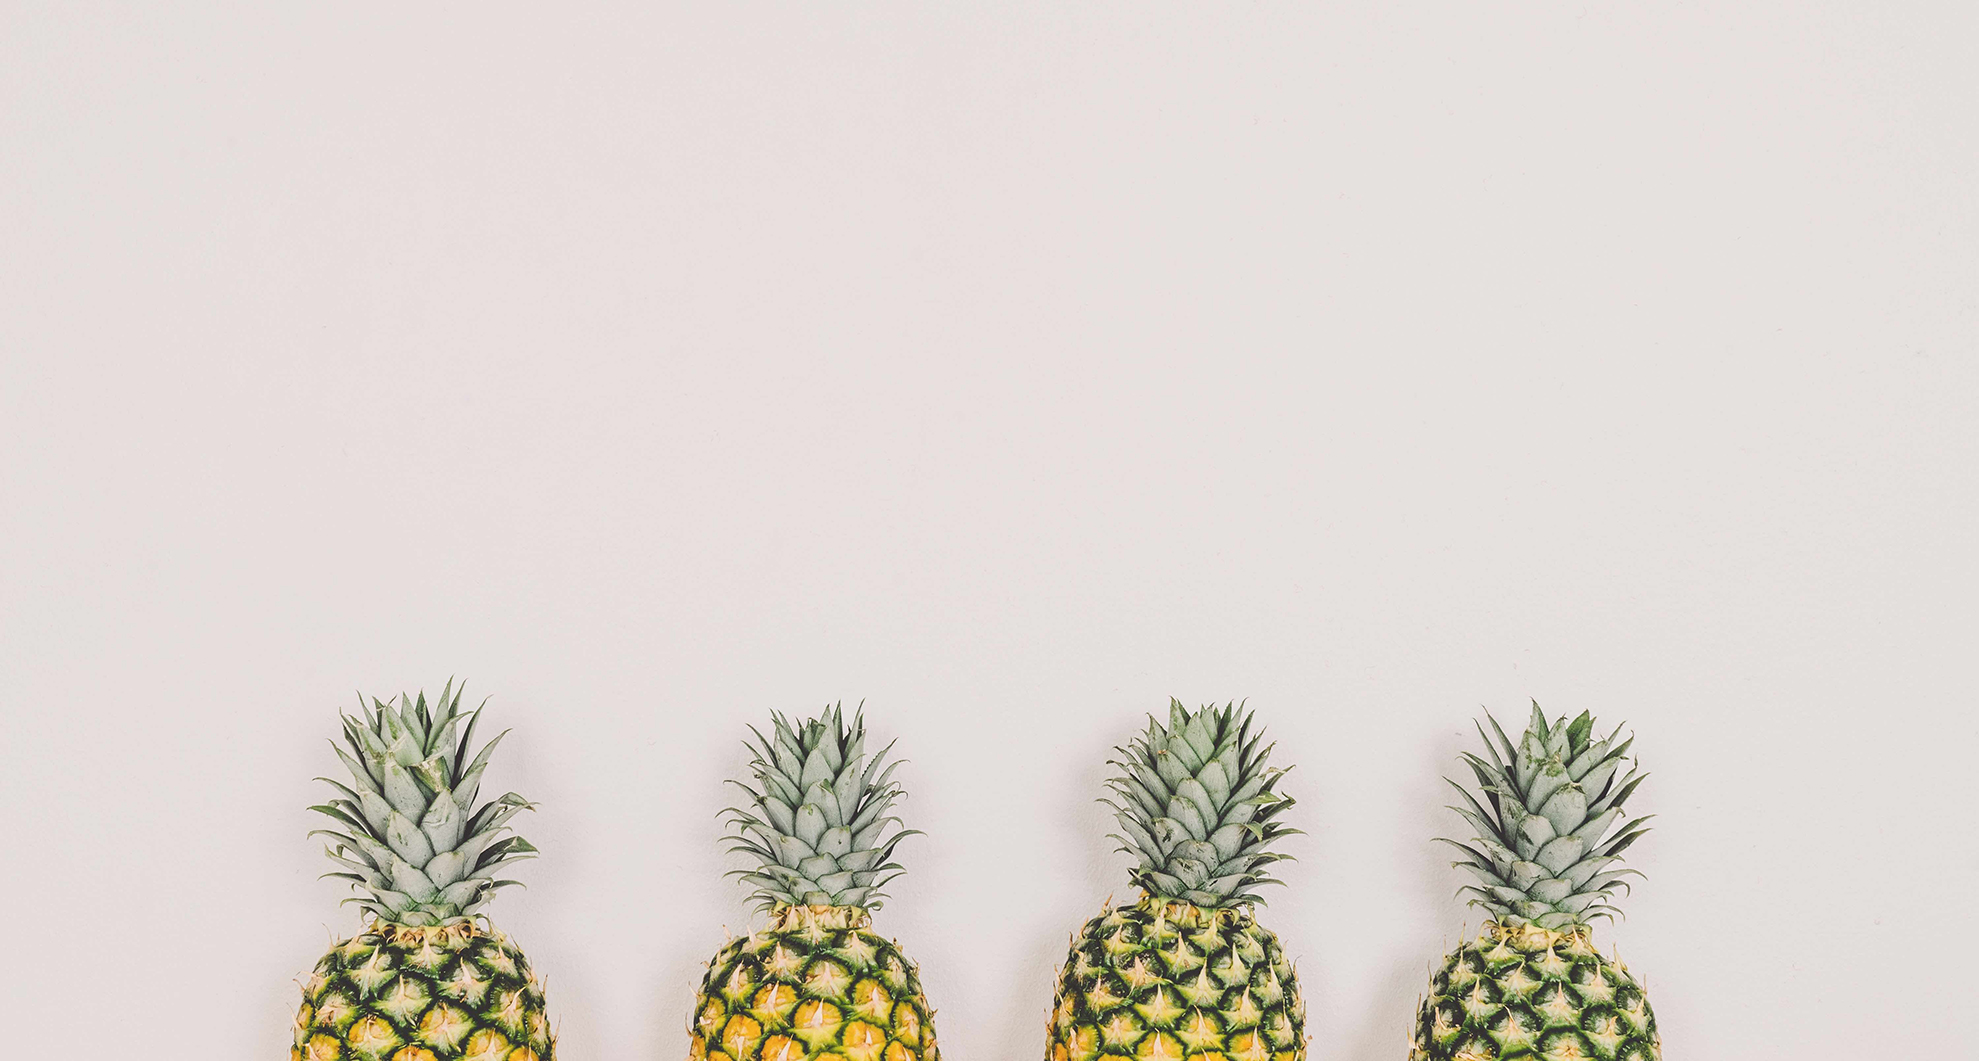
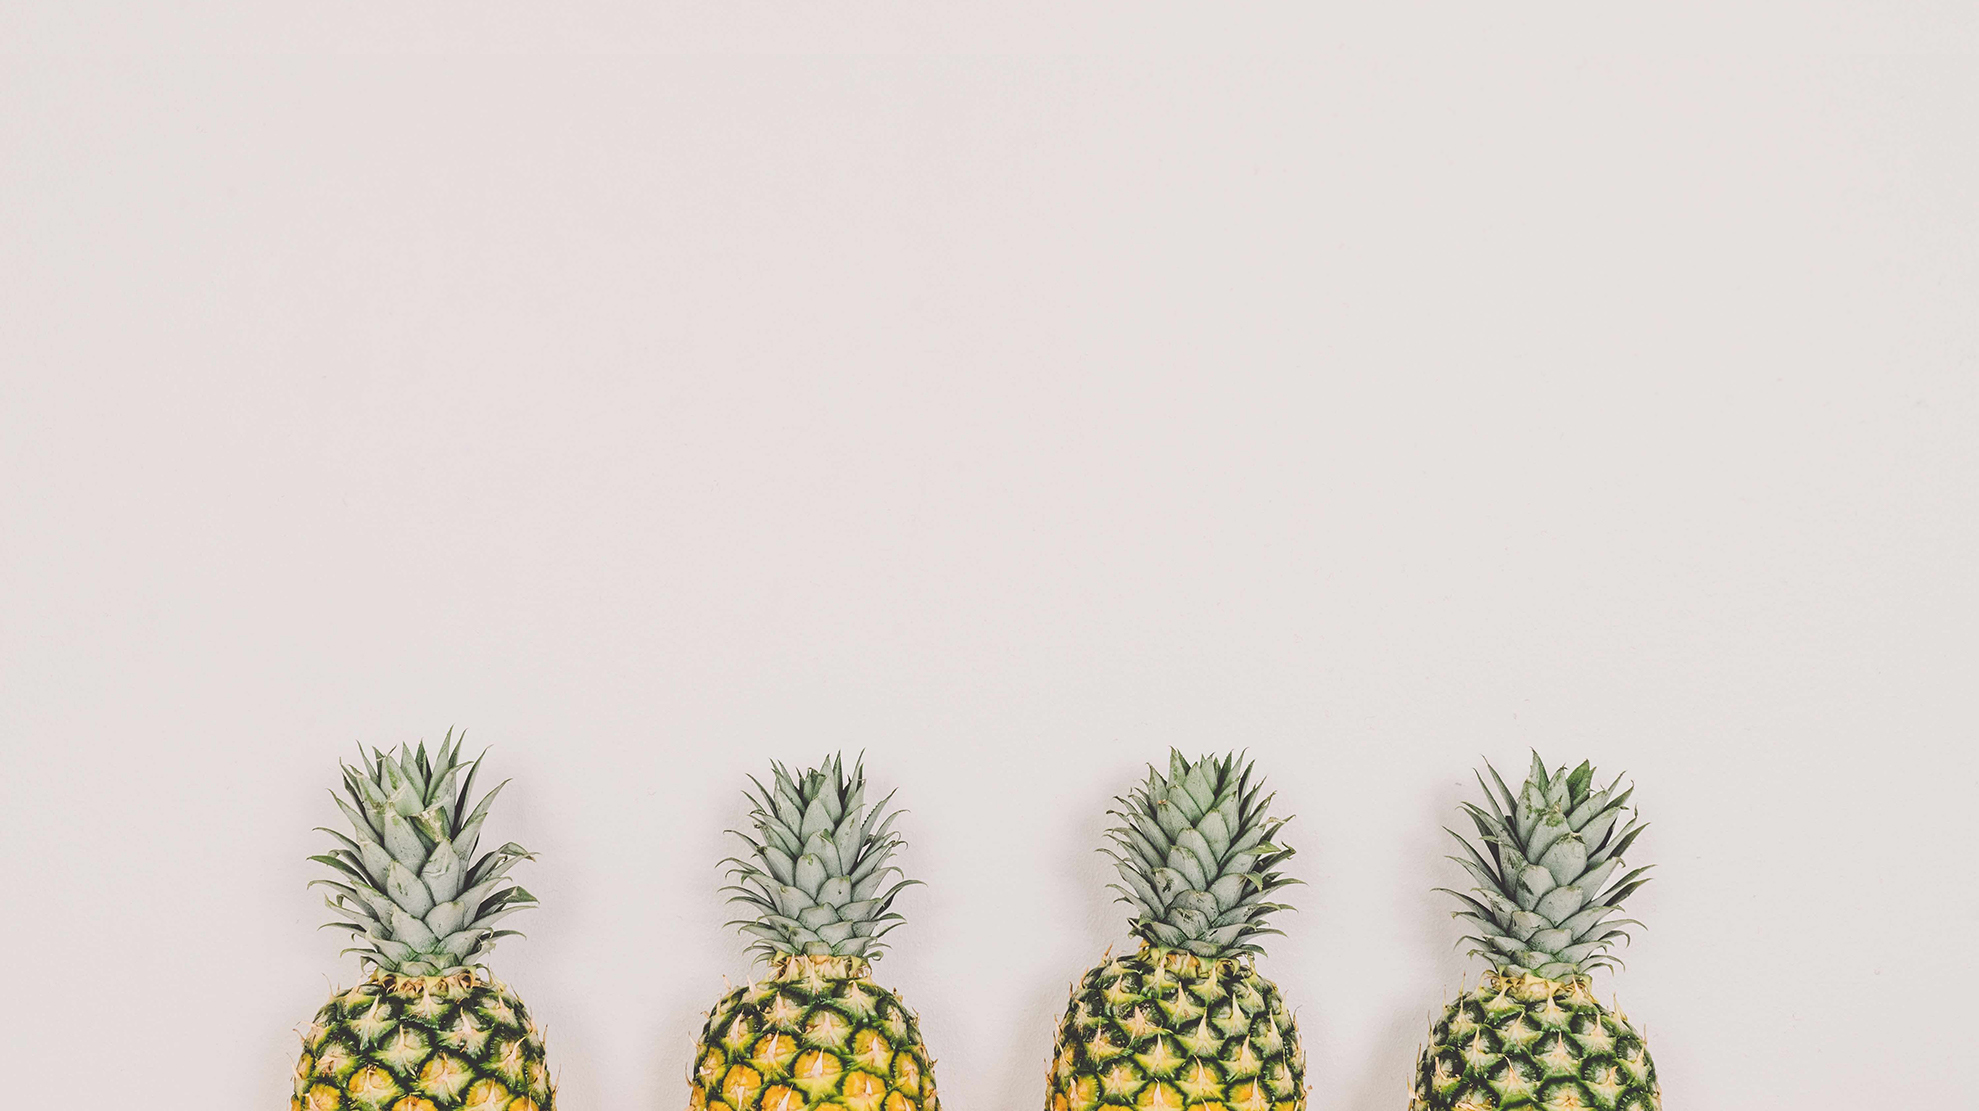
adjustments.. forgot which ones.. lol

diff --git a/projects/love-bound.html b/projects/love-bound.html
@@ -21,6 +21,13 @@
         <script src="https://oss.maxcdn.com/html5shiv/3.7.3/html5shiv.min.js"></script>
         <script src="https://oss.maxcdn.com/respond/1.4.2/respond.min.js"></script>
         <![endif]-->
+        <style>
+
+            .bg-nav a {
+
+                color: #444 !important;
+            }
+        </style>
     </head>
 
     <body>
@@ -43,11 +50,11 @@
 
                 <ul>
 
-                    <li><a href="../index.html">home</a></li>
-                    <li><a href="#projects">projects</a></li>
-                    <li><a href="../index.html#about">About</a></li>
+                    <li><a style="color: whitesmoke" href="../index.html">home</a></li>
+                    <li><a style="color: whitesmoke" href="#projects">projects</a></li>
+                    <li><a style="color: whitesmoke" href="../index.html#about">About</a></li>
                     <!-- <li><a href="#experience">experience</a></li> -->
-                    <li><a href="#contact">contact</a></li>
+                    <li><a style="color: whitesmoke" href="#contact">contact</a></li>
                 </ul>
             </nav>
         </header>
@@ -62,16 +69,16 @@
 
                     <div>
 
-                        <h4>Wellness App</h4>
-                        <h1>Love<br />Bound</h1>
+                        <h4 style="color: #877689">Wellness App</h4>
+                        <h1 style="color: whitesmoke">Love<br />Bound</h1>
                     </div>
                 </div>
                 <div data-aos="fade-up" data-aos-delay="500">
 
                     <div>
 
-                        <h3 style="margin-bottom:15px;">We had to innovate online shopping, fast</h3>
-                        <h5>
+                        <h3 style="margin-bottom:15px;color: rgb(218, 218, 218)">We had to innovate online shopping, fast</h3>
+                        <h5 style="color: whitesmoke">
                             Lorem ipsum dolor sit amet, consectetur adipiscing
                             elit, sed do eiusmod tempor incididunt ut labore et dolore magna aliqua. Ut
                             enim ad minim veniam, quis nostrud exercitation ullamco laboris nisi ut aliquip

diff --git a/css/style.css b/css/style.css
@@ -840,7 +840,7 @@ fieldset {
 
 .love-background-image {
 
-    background: url(../img/abc/marble-surface-wall-1323712.jpg);
+    background: url(../img/wellness/loveboundhero.jpg);
 }
 
 .schedule-background-image {
